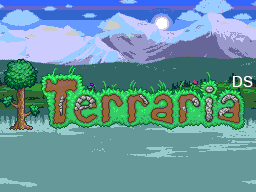
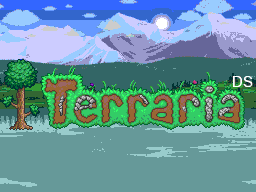
added splash text idk

Changed region(s): [[0.2188, 0.0312, 0.7812, 0.0625], [0.0, 0.0312, 0.1875, 0.0625], [0.9062, 0.0312, 1.0, 0.0625]]

diff --git a/source/main.c b/source/main.c
@@ -316,6 +316,17 @@ static int clamp(int val, int min, int max)
 	return val;
 }
 
+char *randomSplash(int n) {
+	switch (n) {
+		case 0:
+			return "Does this work?";
+		case 1:
+			return "Definetly not inspired by a small game called Terraria?!";
+		default:
+			return "By AzizBgBoss, for the DS community!";
+	}
+}
+
 int getElementTile(int tile, int x, int y) // Tile will change based on surrounding tiles
 {
 	int tileabove = (y > 0) ? gameTerrain[x + (y - 1) * MAP_WIDTH] : TILE_AIR;
@@ -1655,6 +1666,8 @@ You shall press START to continue, with no saving abilities.");
 	f = fopen("nitro:/bg.pal.bin", "rb");
 	fread((void *)BG_PALETTE_SUB, 1, bgPalLen, f);
 	fclose(f);
+
+	print(0, 17, randomSplash(rando(0,10)));
 
 	int x = 0;
 
